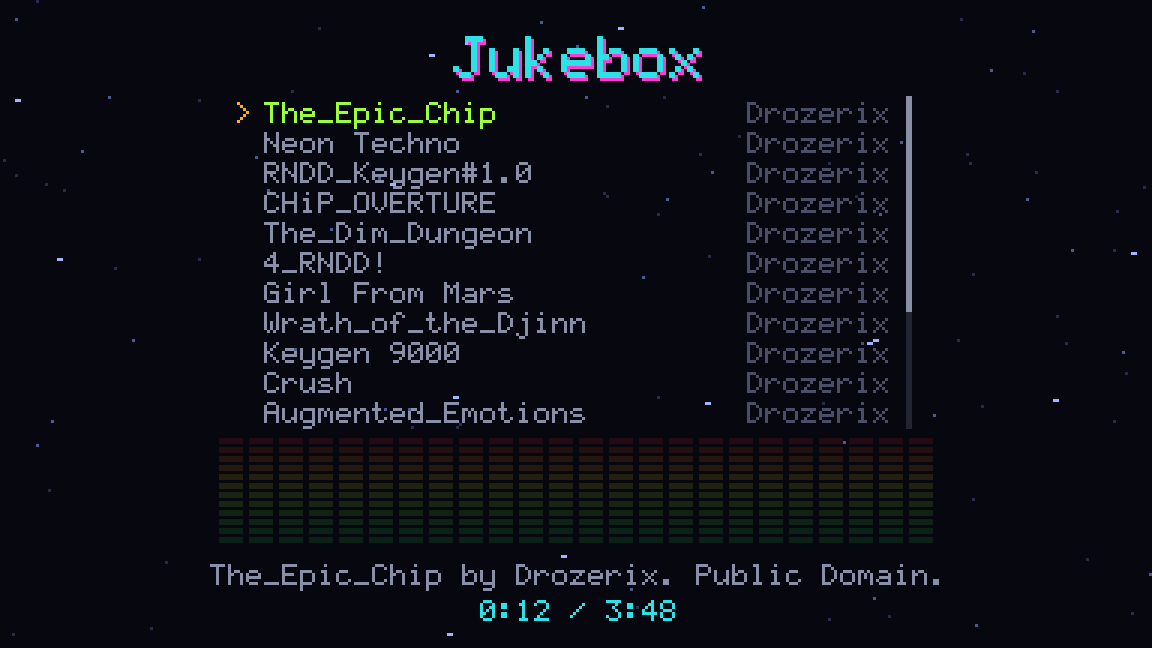
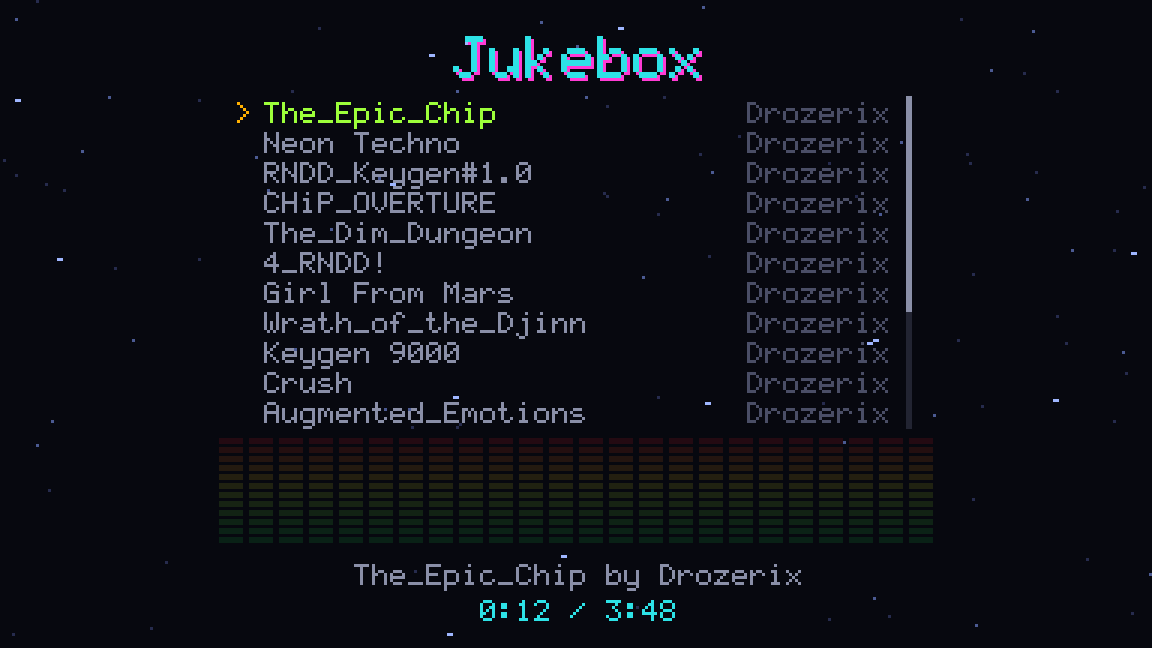
Credit songs by author only outside the Credits screen
Brad found "Public Domain." on every song line redundant: the title,
the Jukebox and the level intro now read "by Drozerix", and the license
stays on the Credits screen.

Claude-Session: https://claude.ai/code/session_01JHfHGCLy1xFvhSVxtBfjqe

Changed region(s): [[0.1875, 0.8642, 0.8125, 0.9259]]

diff --git a/tools/screenshots/shots.ts b/tools/screenshots/shots.ts
@@ -46,7 +46,7 @@ export const shots: Shot[] = [
       'letters with a magenta shadow, over a row of small LED segments shading from green to red. Below it, a ' +
       'menu in small pixel type: "Play" in amber with an amber ">" before it, then "Practice" with ' +
       '"The_Epic_Chip", "Difficulty" with "Normal", "Jukebox", "Controls", "Settings", "Help" and "Credits", in grey. Under the menu, ' +
-      '"Music: The_Epic_Chip by Drozerix. Public Domain."',
+      '"Music: The_Epic_Chip by Drozerix"',
     caption: 'The title menu. Not used in the README.',
     usedIn: [],
   },
@@ -60,7 +60,7 @@ export const shots: Shot[] = [
       'Keygen 9000, Crush and Augmented_Emotions; four more songs, "Import" and "Back" are below, out of view, and a thin ' +
       'scroll bar on the right has its grey thumb at the top. The first song is lime with an amber ">" before it. Under the list, a dim ' +
       'row of 24 LED bars, green at the bottom to red at the top, all unlit. At the bottom, "The_Epic_Chip ' +
-      'by Drozerix. Public Domain." in grey and "0:12 / 3:48" in cyan.',
+      'by Drozerix" in grey and "0:12 / 3:48" in cyan.',
     caption: 'The jukebox, playing the first song. Not used in the README.',
     usedIn: [],
   },
@@ -212,7 +212,7 @@ export const shots: Shot[] = [
     alt:
       'The cockpit with the cassette in the deck: through the door\'s window, its label reading "Neon Techno" ' +
       'and its two hubs. Above the panel, "Level 1" in large white pixel letters, "Neon Techno" in ' +
-      'light grey, and "by Drozerix. Public Domain.  Normal" in grey. The glove, coming in from the bottom ' +
+      'light grey, and "by Drozerix  Normal" in grey. The glove, coming in from the bottom ' +
       'right, presses the Play key with its index finger, covering the keys to its right.',
     caption: 'The hangar intro: Play pressed. Not used in the README.',
     usedIn: [],

diff --git a/packages/client/src/game/songs.ts b/packages/client/src/game/songs.ts
@@ -14,7 +14,10 @@ export interface BundledSong {
   title: string;
   author: string;
   license: string;
-  /** Who made it and the license, as one line for the screen. */
+  /**
+   * Who made it, as one line for the screen ("by Drozerix"). The license is on the Credits
+   * screen, not here (Brad, 2026-11-10: on every song line it was redundant).
+   */
   credit: string;
   /** The song's page where it was published (The Mod Archive), or null. */
   sourceUrl: string | null;
@@ -39,7 +42,7 @@ export const SONGS: readonly BundledSong[] = manifest.map((entry) => {
     title: entry.title,
     author: entry.author,
     license: entry.license,
-    credit: `by ${entry.author}. ${entry.license}.`,
+    credit: `by ${entry.author}`,
     sourceUrl: entry.sourceUrl,
     sha256: entry.sha256,
     imported: false,

diff --git a/docs/DEVELOPMENT.md b/docs/DEVELOPMENT.md
@@ -1437,9 +1437,10 @@ touch". The list scrolls to keep the cursor in view (`creditsTop`), with a scrol
   libopenmpt's license is BSD-3-Clause, which asks that binary copies carry its notice.
 - **Game** opens the source code on GitHub.
 
-The song lines elsewhere (the title's Practice line, the Jukebox, the level intro) keep
-"by Drozerix. Public Domain." without a link (Brad, 2026-11-10: Credits is the one place
-for the links; a canvas line can't be clicked, and a URL doesn't fit).
+The song lines elsewhere (the title's Practice line, the Jukebox, the level intro) name
+the author only, "by Drozerix": no link and no license (Brad, 2026-11-10: Credits is the
+one place for both; a canvas line can't be clicked, a URL doesn't fit, and the license on
+every line was redundant).
 
 ### Renderer
 

diff --git a/docs/CHANGELOG.md b/docs/CHANGELOG.md
@@ -13,6 +13,8 @@ Fixes**, in that order.
 
 ## Milestones
 
+* **No license on the song lines, from Brad's review.** The title, the Jukebox and the
+  level intro credit a song as "by Drozerix"; its license is on the Credits screen.
 * **M4 finished: library, offline, music pack.** Its acceptance check passes: the game
   installs, plays with no connection, and imports and plays a new song offline
   (`pnpm check:offline`). The last step adds the music pack and a Credits screen:
